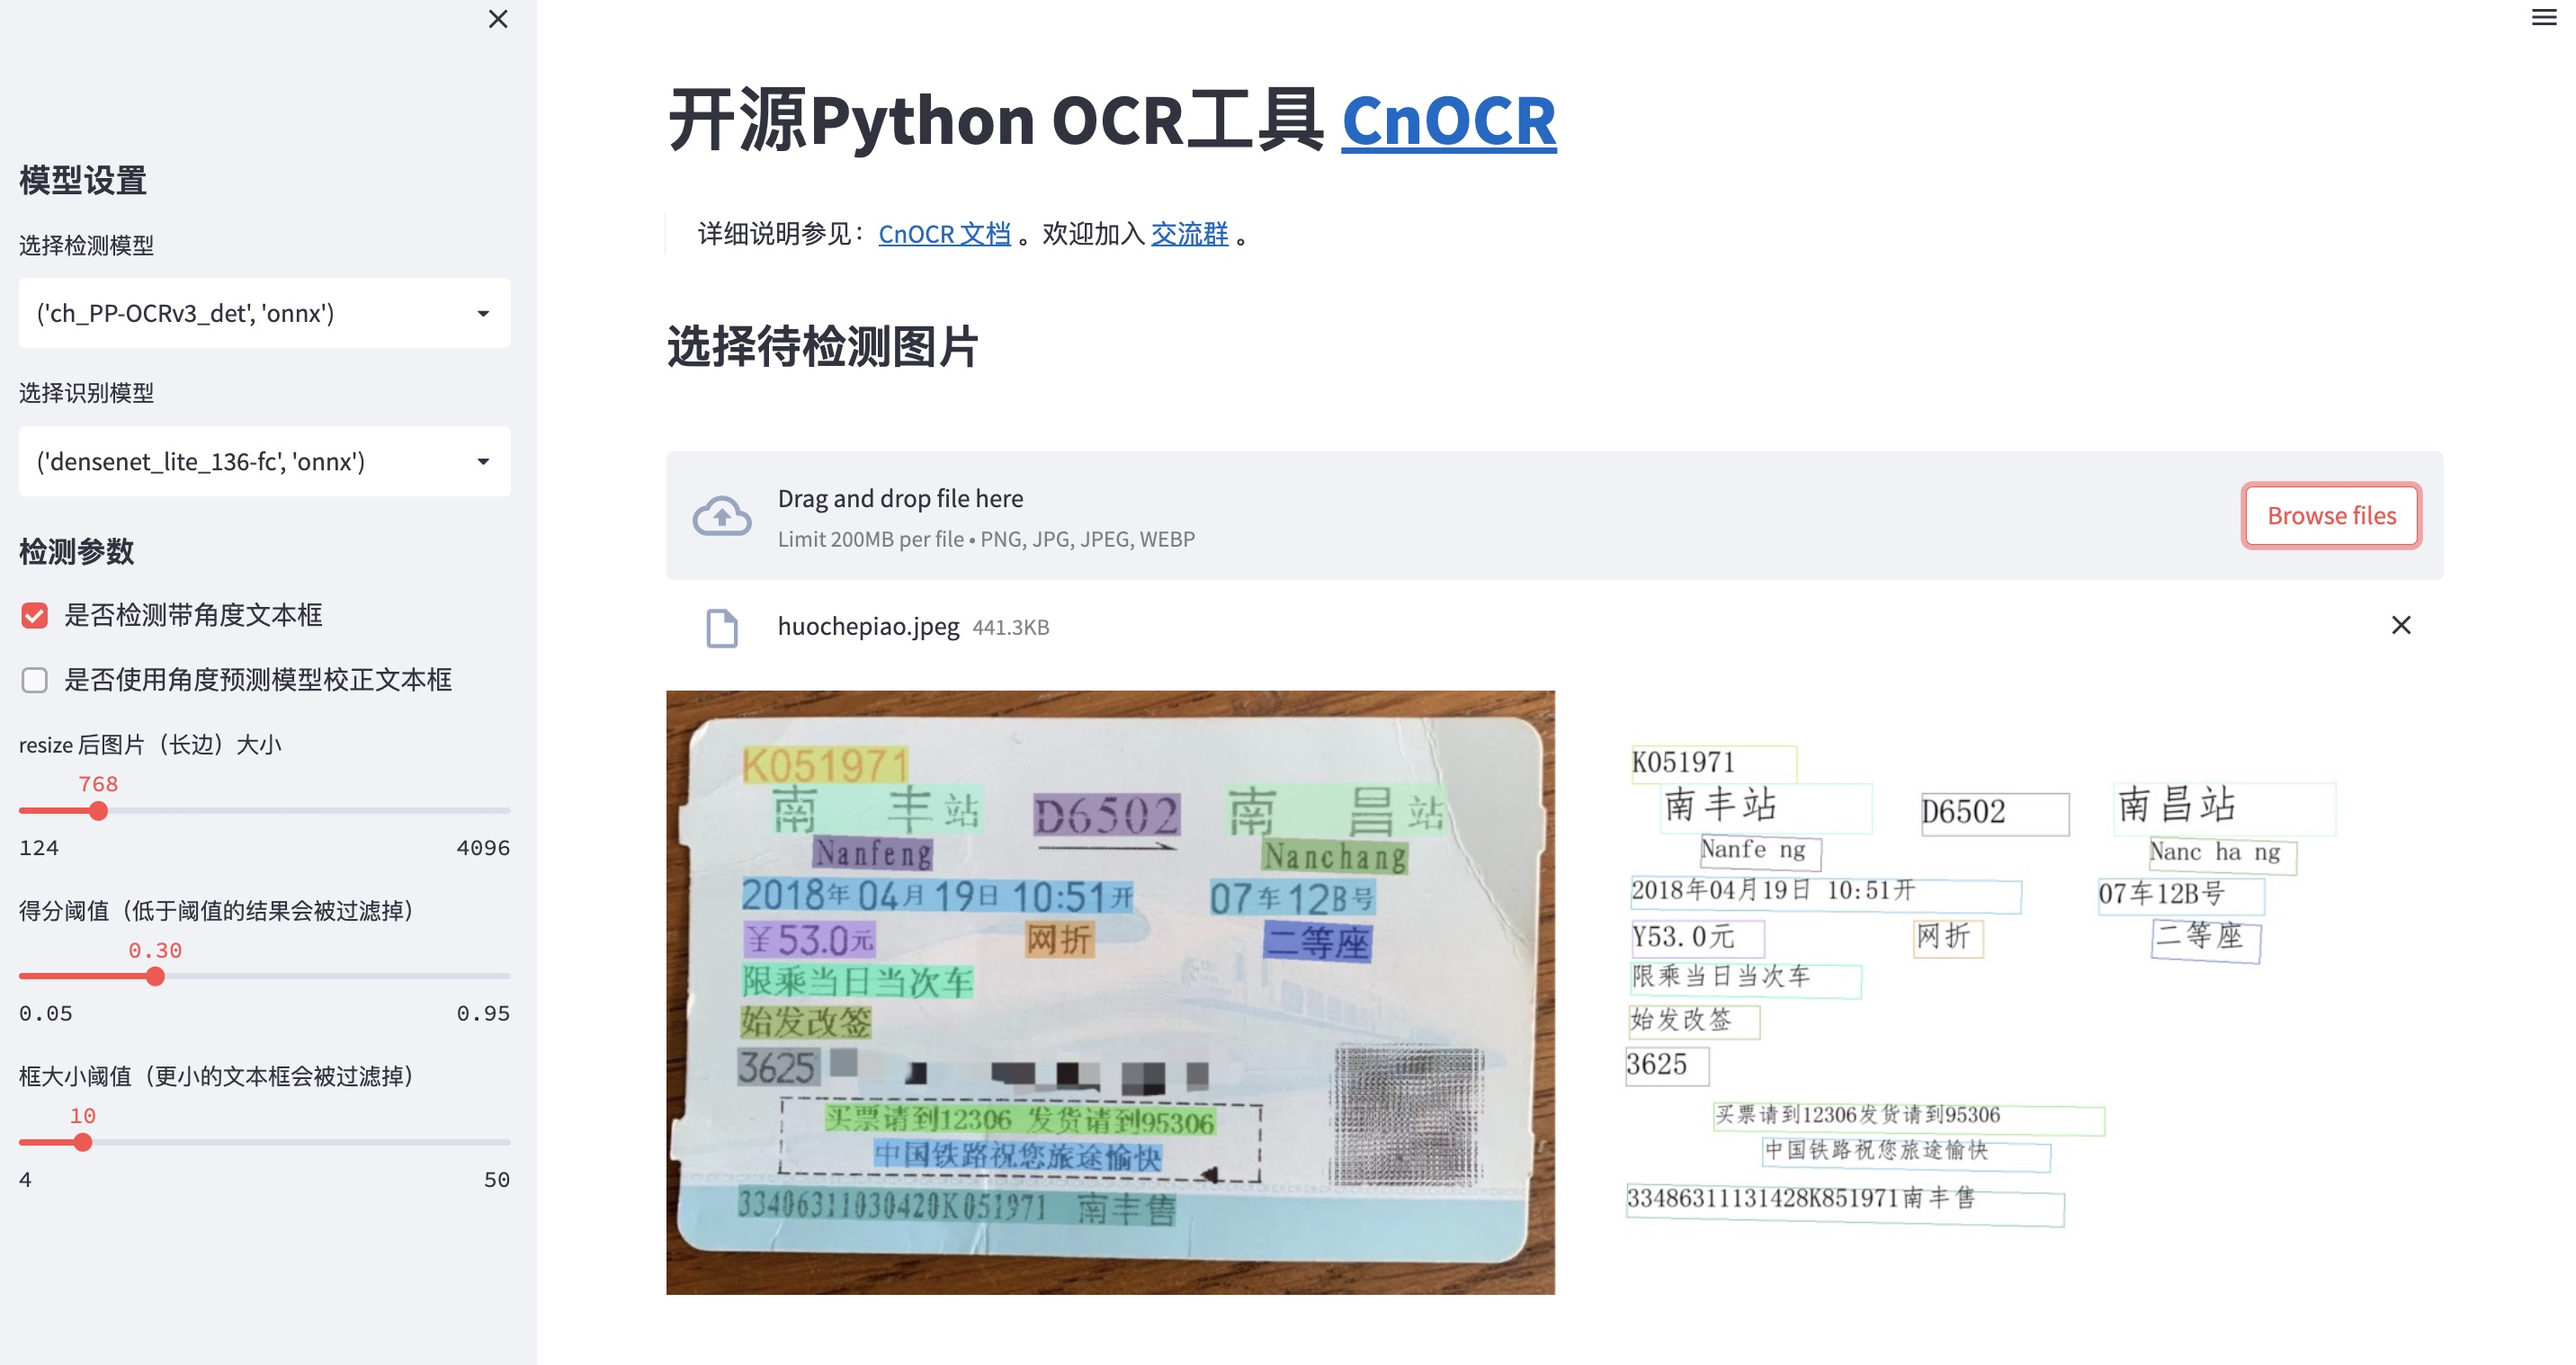
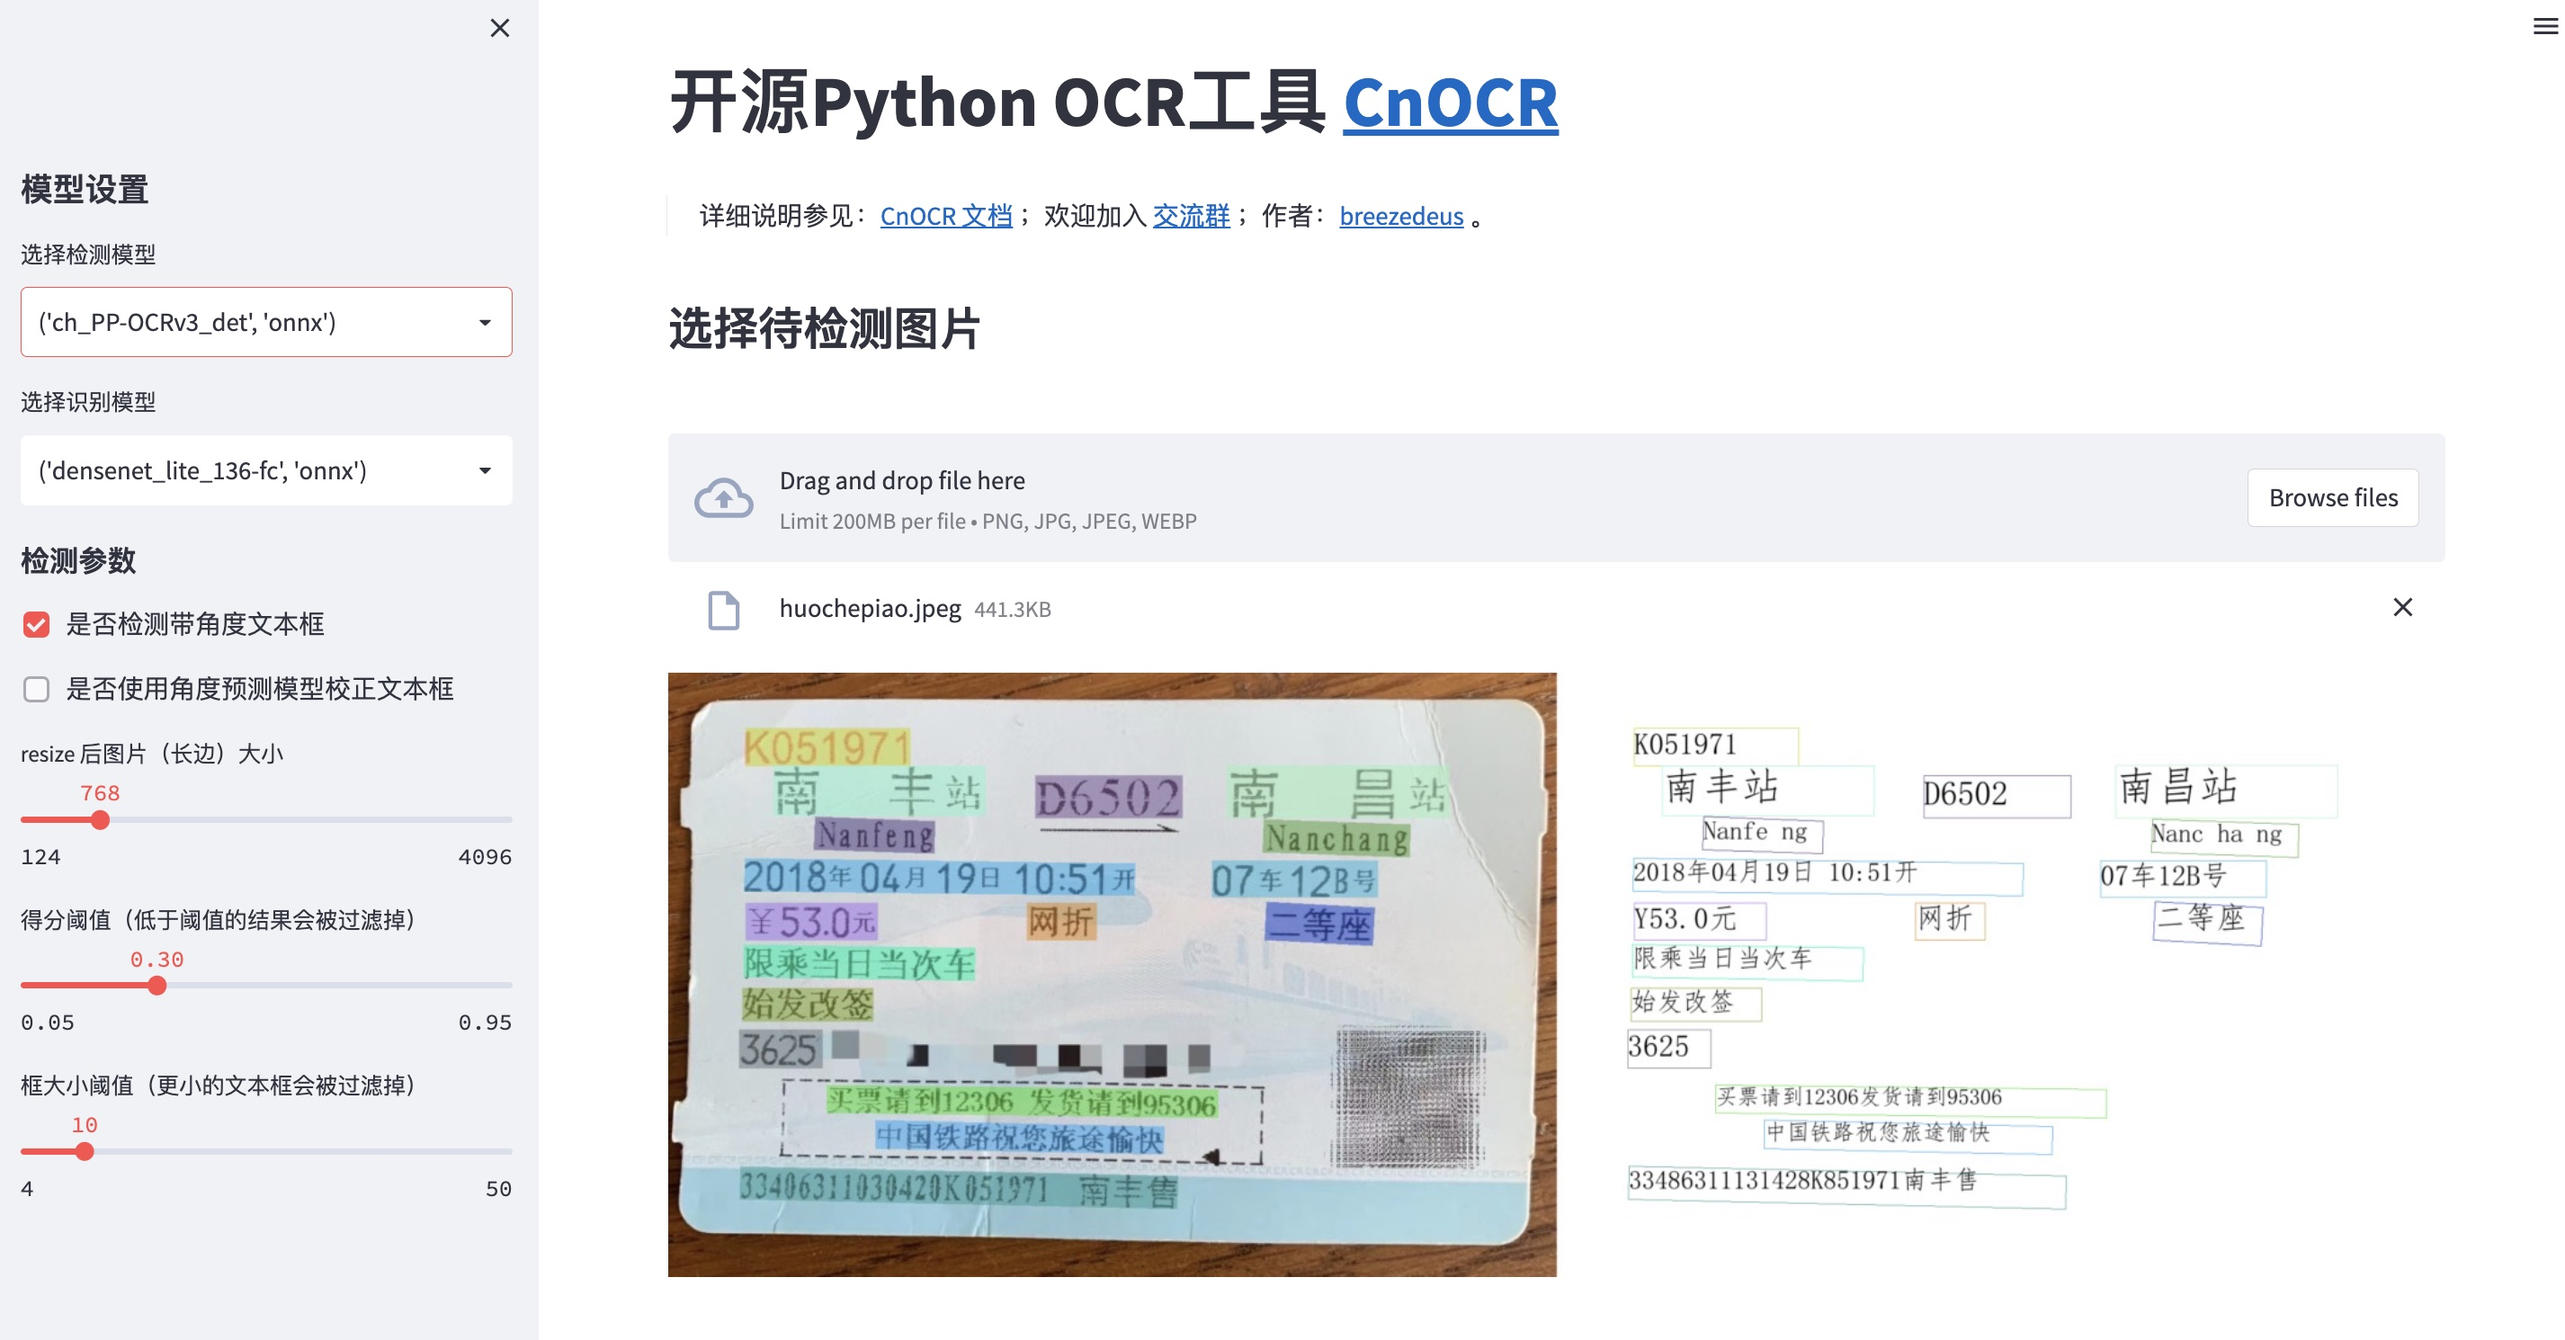
update app.py

diff --git a/cnocr/app.py b/cnocr/app.py
@@ -17,6 +17,7 @@
 # specific language governing permissions and limitations
 # under the License.
 
+import os
 from collections import OrderedDict
 
 import cv2
@@ -26,6 +27,10 @@ import streamlit as st
 from cnstd.utils import pil_to_numpy, imsave
 
 from cnocr import CnOcr, DET_AVAILABLE_MODELS, REC_AVAILABLE_MODELS
+from cnocr.utils import draw_ocr_results, download
+
+
+st.set_page_config(layout="wide")
 
 
 def plot_for_debugging(rotated_img, one_out, box_score_thresh, crop_ncols, prefix_fp):
@@ -71,12 +76,10 @@ def get_ocr_model(det_model_name, rec_model_name, det_more_configs):
     )
 
 
-def visualize_std(img, det_model_name, std_out, box_score_thresh):
+def visualize_naive_result(img, det_model_name, std_out, box_score_thresh):
     img = pil_to_numpy(img).transpose((1, 2, 0)).astype(np.uint8)
 
-    plot_for_debugging(
-        img, std_out, box_score_thresh, 2, './streamlit-app'
-    )
+    plot_for_debugging(img, std_out, box_score_thresh, 2, './streamlit-app')
     st.subheader('Detection Result')
     if det_model_name == 'default_det':
         st.warning('⚠ Warning: "default_det" 检测模型不返回文本框位置！')
@@ -87,10 +90,10 @@ def visualize_std(img, det_model_name, std_out, box_score_thresh):
     cols = st.columns([1, 7, 1])
     cols[1].image('./streamlit-app-crops.png')
 
-    visualize_ocr(std_out)
+    _visualize_ocr(std_out)
 
 
-def visualize_ocr(ocr_outs):
+def _visualize_ocr(ocr_outs):
     st.empty()
     ocr_res = OrderedDict({'文本': []})
     ocr_res['得分'] = []
@@ -101,24 +104,37 @@ def visualize_ocr(ocr_outs):
     st.table(ocr_res)
 
 
+def visualize_result(img, ocr_outs):
+    out_draw_fp = './streamlit-app-det-result.png'
+    font_path = 'docs/fonts/simfang.ttf'
+    if not os.path.exists(font_path):
+        url = 'https://huggingface.co/datasets/breezedeus/cnocr-wx-qr-code/resolve/main/fonts/simfang.ttf'
+        os.makedirs(os.path.dirname(font_path), exist_ok=True)
+        download(url, path=font_path, overwrite=True)
+    draw_ocr_results(img, ocr_outs, out_draw_fp, font_path)
+    st.image(out_draw_fp)
+
+
 def main():
     st.sidebar.header('模型设置')
     det_models = list(DET_AVAILABLE_MODELS.all_models())
     det_models.append(('naive_det', 'onnx'))
     det_models.sort()
     det_model_name = st.sidebar.selectbox(
-        '检测模型名称', det_models, index=det_models.index(('ch_PP-OCRv3_det', 'onnx'))
+        '选择检测模型', det_models, index=det_models.index(('ch_PP-OCRv3_det', 'onnx'))
     )
 
     all_models = list(REC_AVAILABLE_MODELS.all_models())
     all_models.sort()
     idx = all_models.index(('densenet_lite_136-fc', 'onnx'))
-    rec_model_name = st.sidebar.selectbox('选择模型', all_models, index=idx)
+    rec_model_name = st.sidebar.selectbox('选择识别模型', all_models, index=idx)
 
     st.sidebar.subheader('检测参数')
     rotated_bbox = st.sidebar.checkbox('是否检测带角度文本框', value=True)
     use_angle_clf = st.sidebar.checkbox('是否使用角度预测模型校正文本框', value=False)
-    new_size = st.sidebar.slider('resize 后图片（长边）大小', min_value=124, max_value=4096, value=768)
+    new_size = st.sidebar.slider(
+        'resize 后图片（长边）大小', min_value=124, max_value=4096, value=768
+    )
     box_score_thresh = st.sidebar.slider(
         '得分阈值（低于阈值的结果会被过滤掉）', min_value=0.05, max_value=0.95, value=0.3
     )
@@ -132,17 +148,18 @@ def main():
     det_more_configs = dict(rotated_bbox=rotated_bbox, use_angle_clf=use_angle_clf)
     ocr = get_ocr_model(det_model_name, rec_model_name, det_more_configs)
 
-    st.markdown(
-        '# 开源Python OCR工具 '
-        '[CnOCR](https://github.com/breezedeus/cnocr)'
-    )
+    st.markdown('# 开源Python OCR工具 ' '[CnOCR](https://github.com/breezedeus/cnocr)')
+    st.markdown('> 详细说明参见：[CnOCR 文档](https://cnocr.readthedocs.io/) ；'
+                '欢迎加入 [交流群](https://cnocr.readthedocs.io/zh/latest/contact/) ；'
+                '作者：[breezedeus](https://github.com/breezedeus) 。')
+    st.markdown('')
     st.subheader('选择待检测图片')
     content_file = st.file_uploader('', type=["png", "jpg", "jpeg", "webp"])
     if content_file is None:
         st.stop()
 
     try:
-        img = Image.open(content_file)
+        img = Image.open(content_file).convert('RGB')
 
         ocr_out = ocr.ocr(
             img,
@@ -152,7 +169,11 @@ def main():
             box_score_thresh=box_score_thresh,
             min_box_size=min_box_size,
         )
-        visualize_std(img, det_model_name[0], ocr_out, box_score_thresh)
+        if det_model_name[0] == 'naive_det':
+            visualize_naive_result(img, det_model_name[0], ocr_out, box_score_thresh)
+        else:
+            visualize_result(img, ocr_out)
+
     except Exception as e:
         st.error(e)
 
